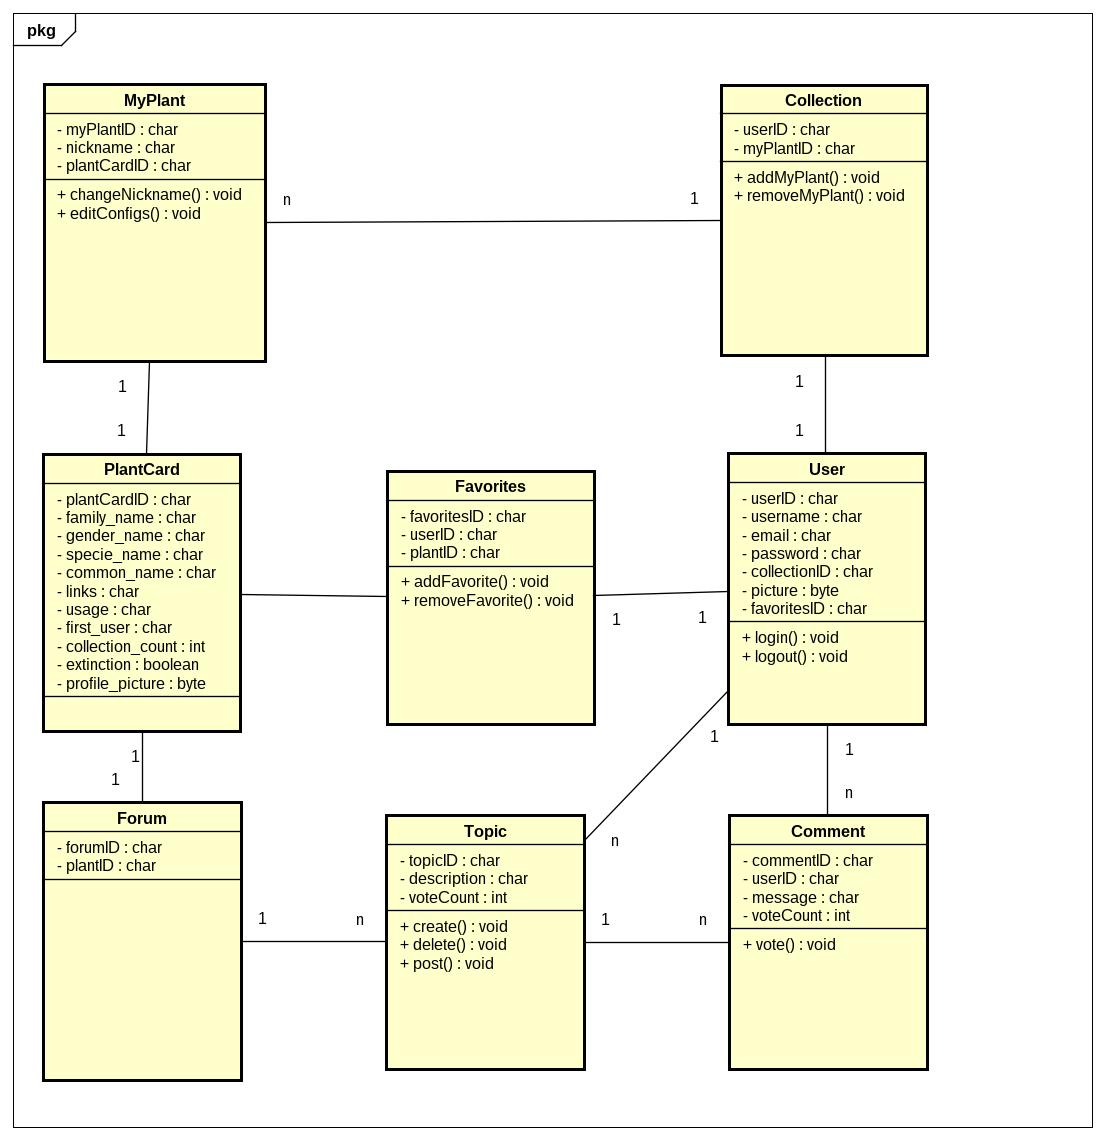
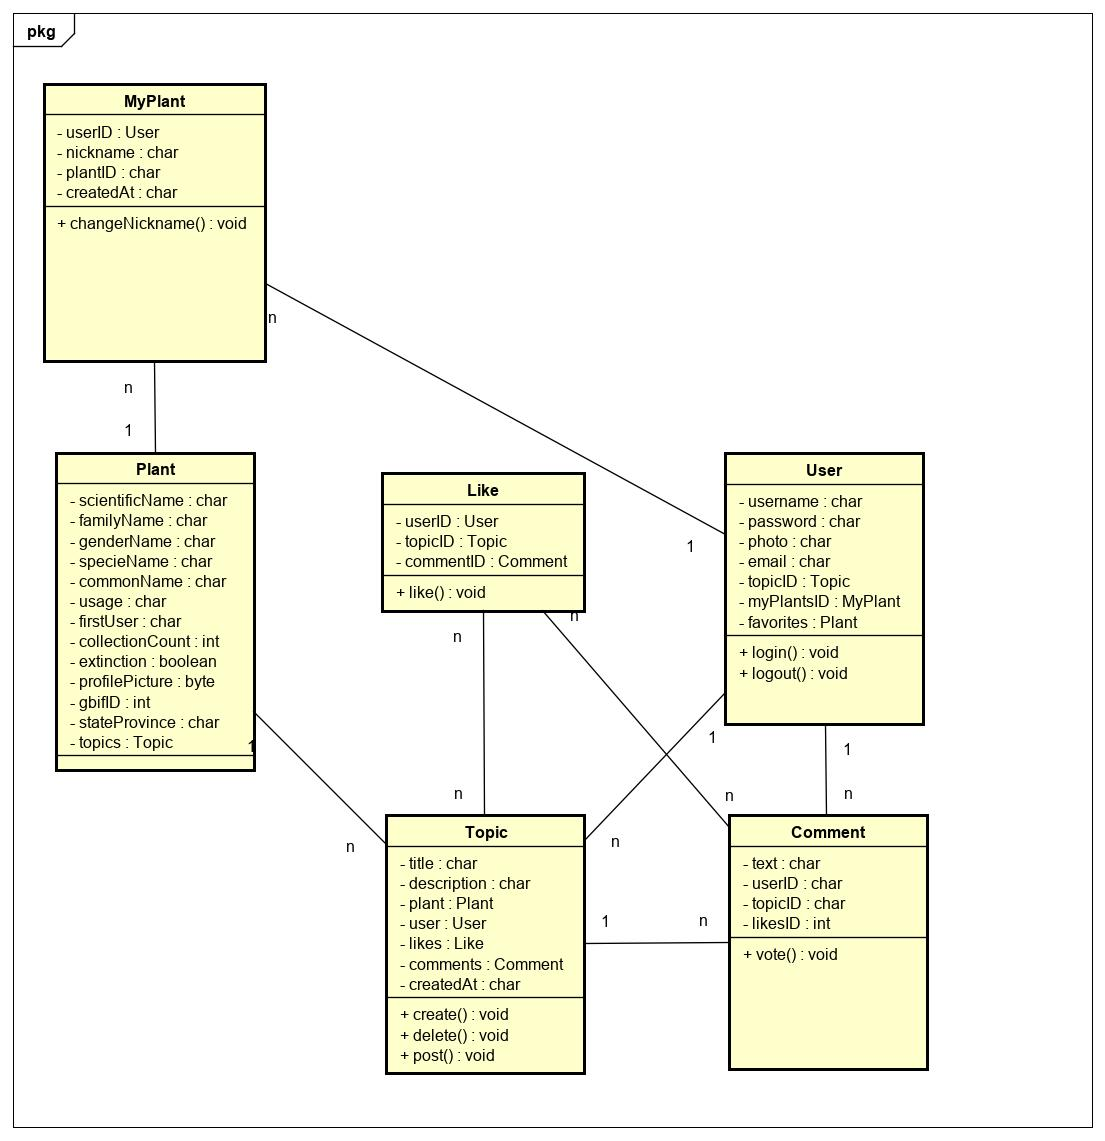
Refactor architecture document.

diff --git a/docs/architecture_document/architecture_document.md b/docs/architecture_document/architecture_document.md
@@ -9,6 +9,7 @@
 | 13/09 |  1.0   | Criação do Documento | [Victor Hugo](http://github.com/V100K) e [Rafael Makaha](http://github.com/rafaelmakaha)
 | 27/09 |  1.1   | Atualização de diagrama de classes e backend pkg | [Victor Hugo](http://github.com/V100K), [Rafael Makaha](http://github.com/rafaelmakaha) e [Ruan Moura](http://github.com/ruanmoura)
 | 27/09 |  1.2   | Atualização do nome do projeto: *GaiaDex* | [Victor Hugo](http://github.com/V100K), [Rafael Makaha](http://github.com/rafaelmakaha) e [Ruan Moura](http://github.com/ruanmoura)
+| 13/12 | 2.0 | Refatoração do dos diagramas de classe e de pacotes | [João Vítor](http://github.com/joaovitorml) e [Rafael Makaha](http://github.com/rafaelmakaha)|
 
 
 ## Sumário
@@ -113,11 +114,11 @@ O desenvolvimento deverá estar de acordo as boas práticas de programação e r
 
 BackEnd:
 
-![Backend](img/pkg_back.png)
+![Backend](img/pkg_back.jpg)
 
 FrontEnd:
 
-![Frontend](img/pkg_front.png)
+![Frontend](img/pkg_front.jpg)
 
 ## **5. Visão de Implementação**
 
